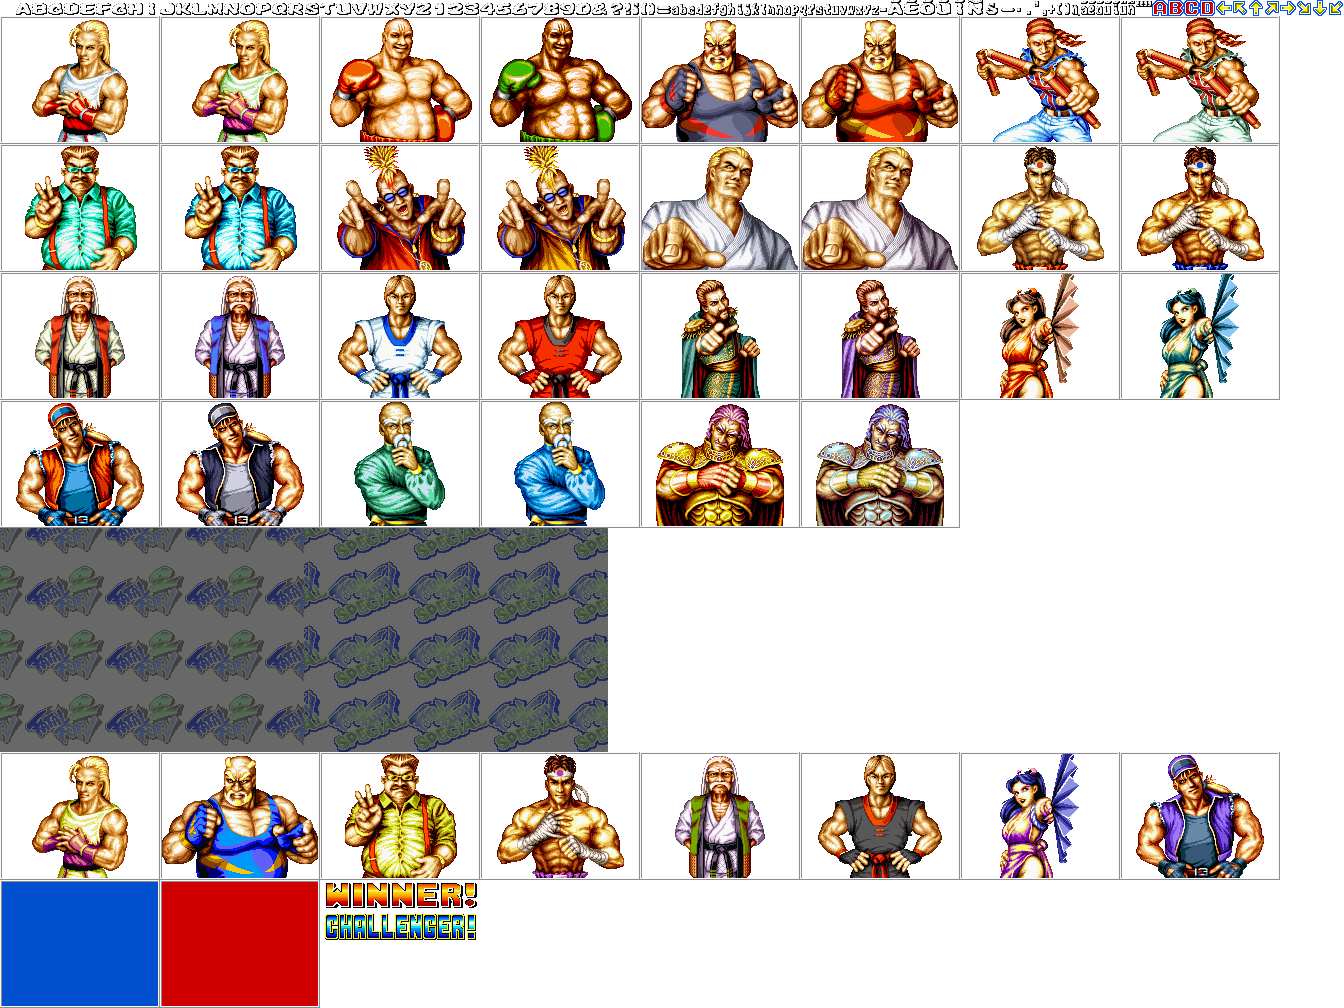
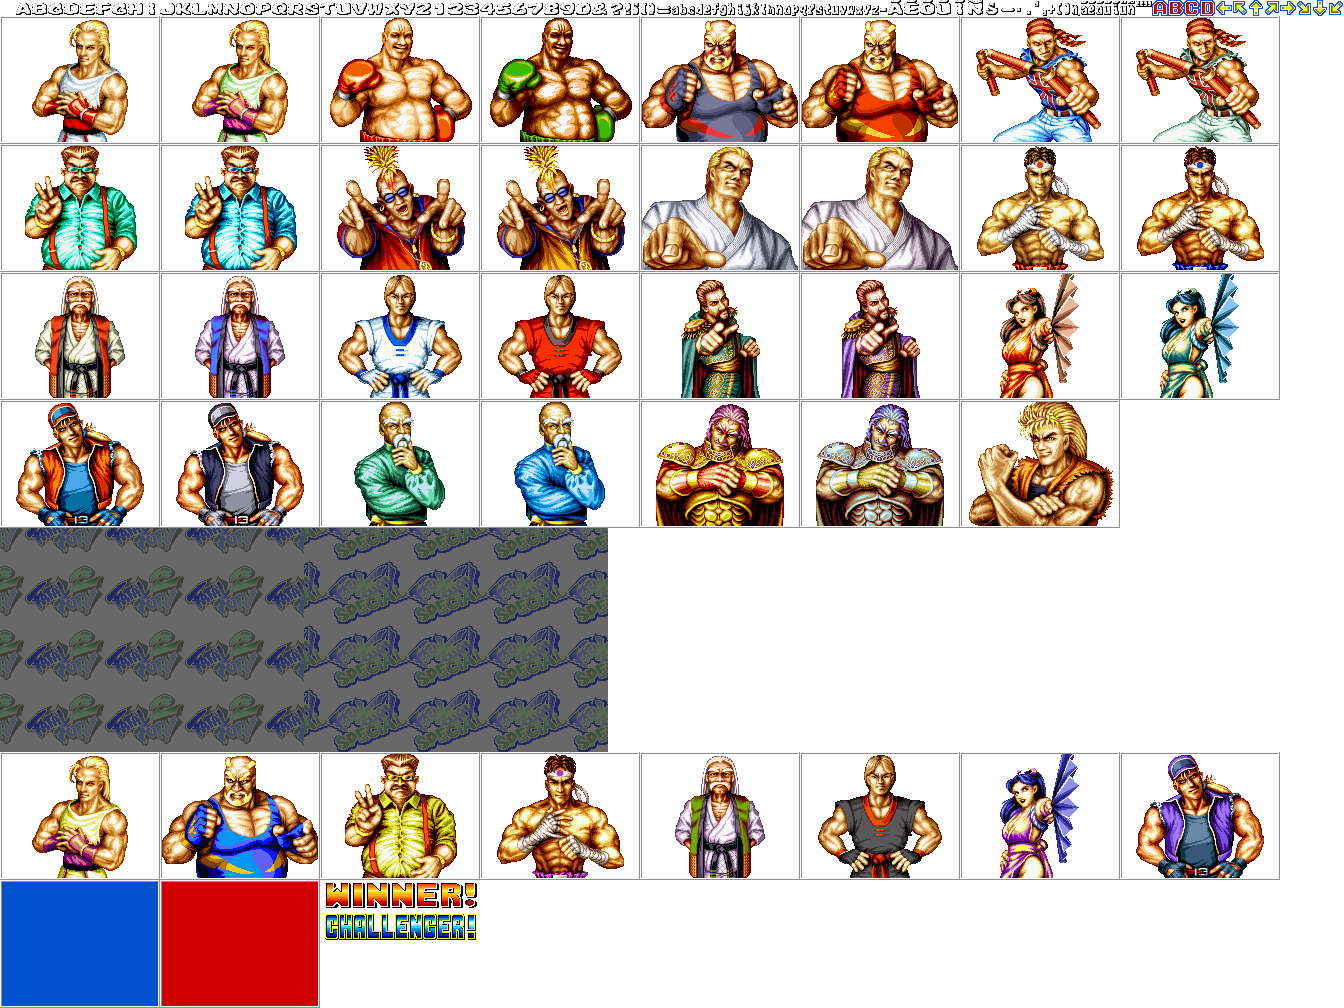
Adding Ryo to Fatal Fury Special

Changed region(s): [[0.7188, 0.3998, 0.8438, 0.5228]]

diff --git a/js/generators.js b/js/generators.js
@@ -532,7 +532,8 @@ var generators={
 		'platform':'arcade',
 		'year':1993,
 		'gameinfo':'https://www.mobygames.com/game/fatal-fury-2',
-		'added':'2080-03-21'
+		'added':'2080-03-21',
+		'updated':'2080-03-22'
 	},
 	'fwbt':{
 		'title': 'The Frog for Whom the Bell Tolls',
